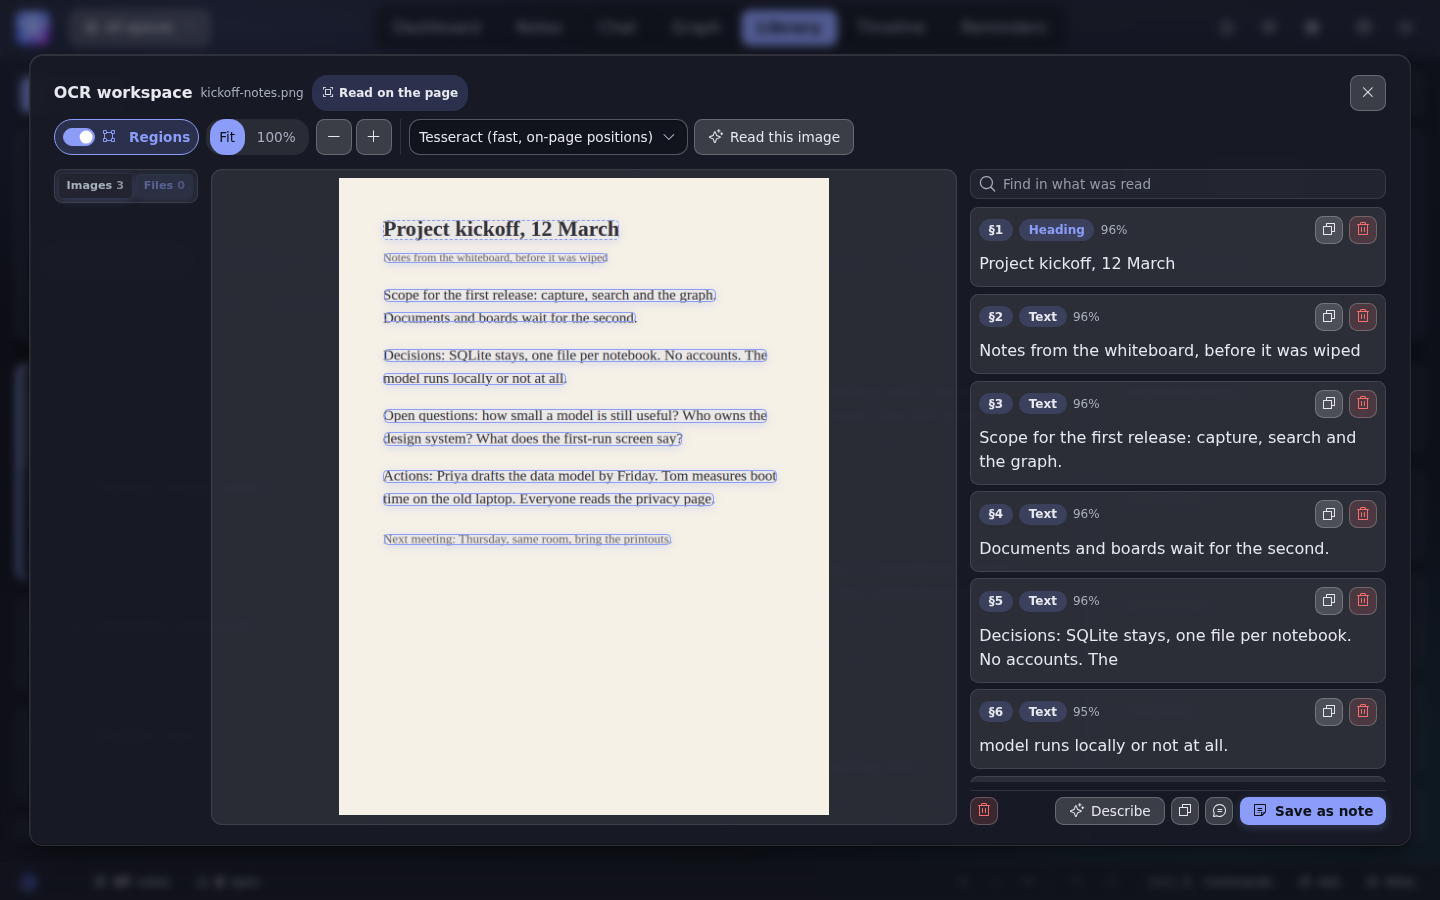
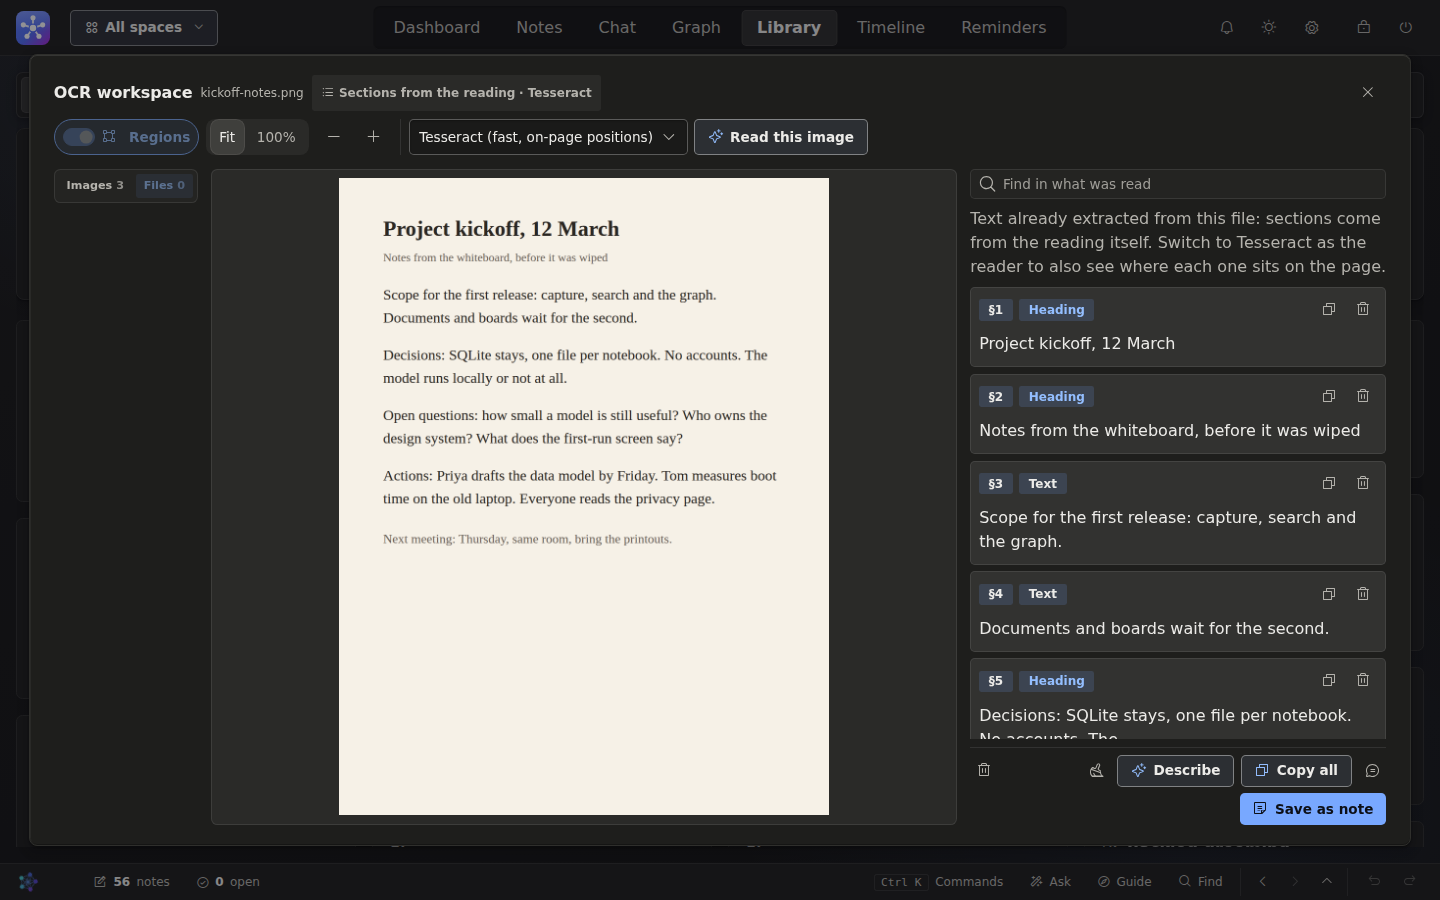
README: the OCR workspace shot retaken in dark
Claude-Session: https://claude.ai/code/session_01Q9yNjL41sRa7fn34bdkhcW

diff --git a/frontend/chat.js b/frontend/chat.js
@@ -2600,15 +2600,17 @@ function wireHorizontalWheelScrolling() {
 window.wireHorizontalWheelScrolling = wireHorizontalWheelScrolling;
 
 //: **Recursive, not `livingInterval`.** That helper (this file, above) fixes
-//: one period for the whole life of the timer; a jittered 2.5-to-3.5s gap
+//: one period for the whole life of the timer; a jittered 3.75-to-5.25s gap
 //: needs a new random delay every tick, so this reimplements its one other
 //: idea by hand: a node re-parented for a frame (this app re-parents a live
 //: turn's own elements on purpose, see `livingInterval`'s comment) is not a
 //: node that is gone, so a handful of short rechecks are given before the
 //: timer actually stops, rather than the leak the naive
 //: `if (!node.isConnected) return` guard used to be.
-const THINKING_WORD_MIN_MS = 2500;
-const THINKING_WORD_JITTER_MS = 1000;
+//: 1.5x the first 2.5-to-3.5s gap: the owner found that pace a little too
+//: fast to read a phrase before it changed (2026-09-28).
+const THINKING_WORD_MIN_MS = 3750;
+const THINKING_WORD_JITTER_MS = 1500;
 const THINKING_WORD_RECHECK_MS = 500;
 const THINKING_WORD_GRACE_TICKS = 4;
 

diff --git a/tests/test_thinking_words_rotation.py b/tests/test_thinking_words_rotation.py
@@ -157,8 +157,8 @@ def test_the_tick_checks_phase_and_connectedness_before_rotating() -> None:
 
 
 def test_the_tick_delay_is_jittered_within_spec() -> None:
-    assert "const THINKING_WORD_MIN_MS = 2500;" in APP
-    assert "const THINKING_WORD_JITTER_MS = 1000;" in APP
+    assert "const THINKING_WORD_MIN_MS = 3750;" in APP
+    assert "const THINKING_WORD_JITTER_MS = 1500;" in APP
 
 
 def test_the_crossfade_reuses_the_progress_musings_own_technique() -> None:
